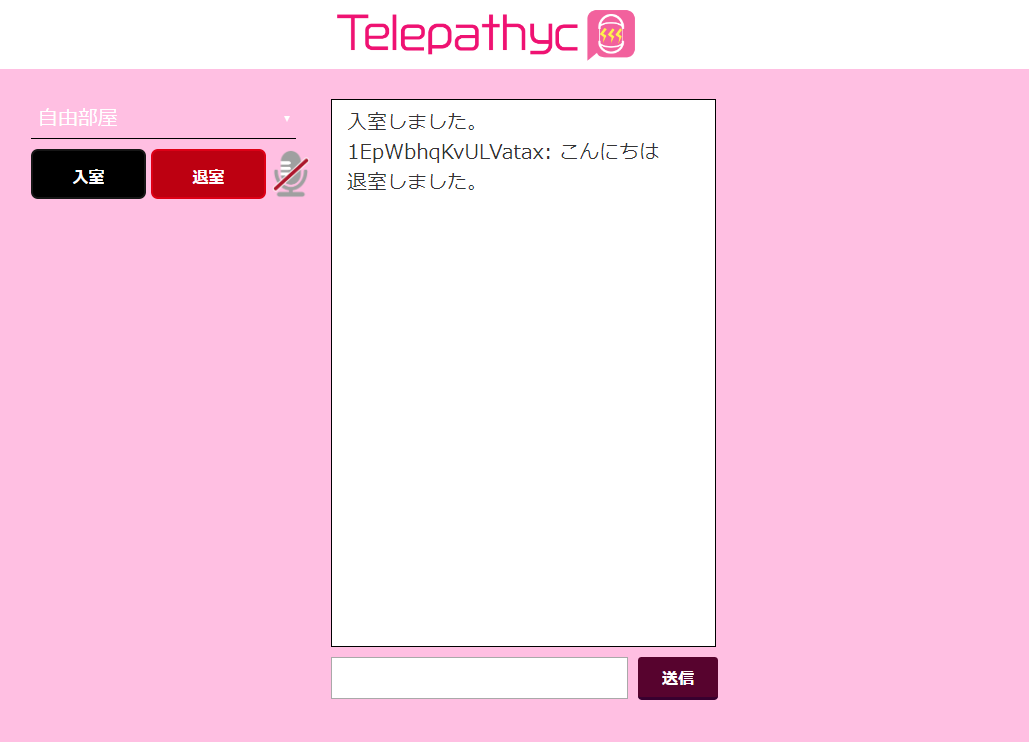
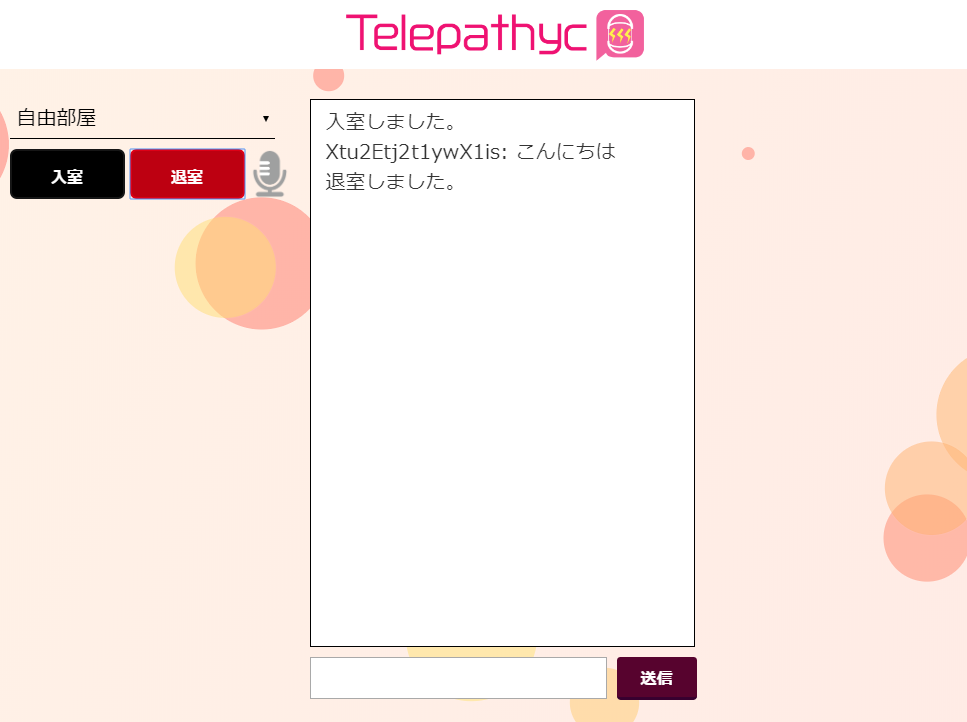
color

diff --git a/css/style.css b/css/style.css
@@ -117,7 +117,7 @@ transform: translate(0, 3px);
 }
 
 .section:nth-of-type(odd) {
-  background-color:#f29a33;
+  background-color:#1d4494;
 }
 
 .section .inner {

diff --git a/js/anime.js b/js/anime.js
@@ -1,5 +1,5 @@
 bubbly({
-    colorStart: "#3218c2",
+    colorStart: "#2e3cb5",
     colorStop: "#000000",
     blur: 1,
     bubbles: 30,
